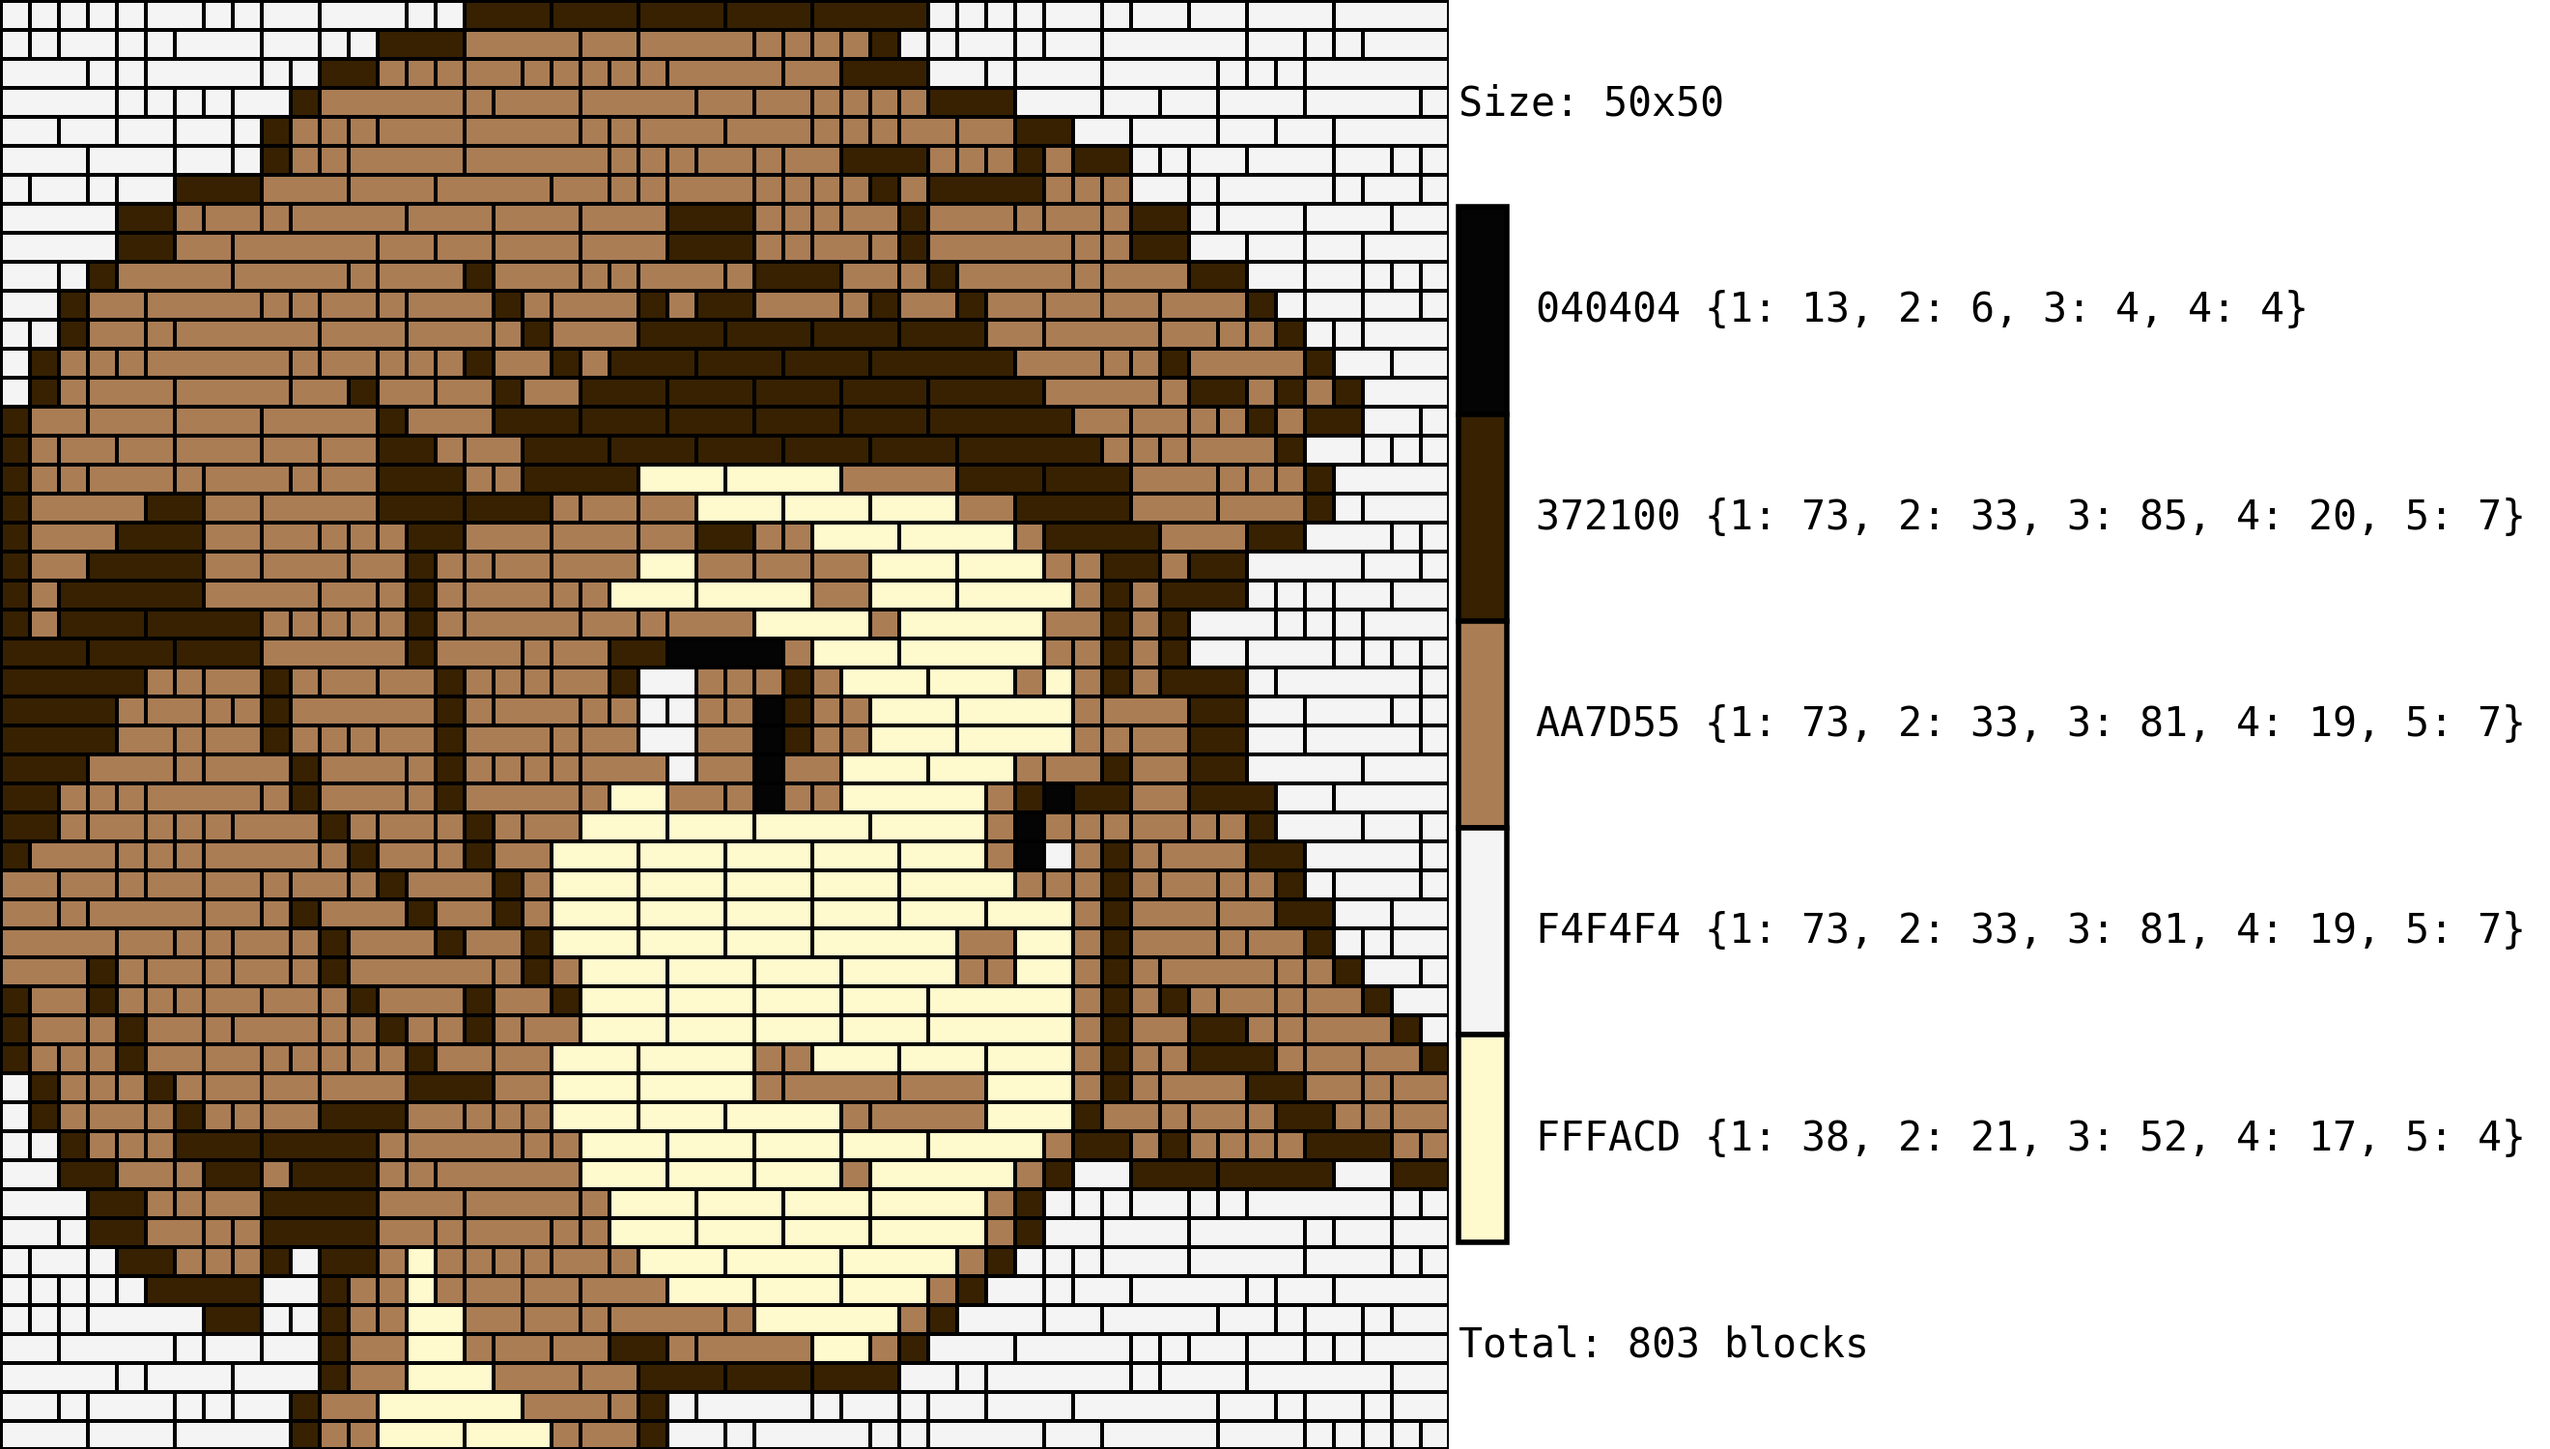
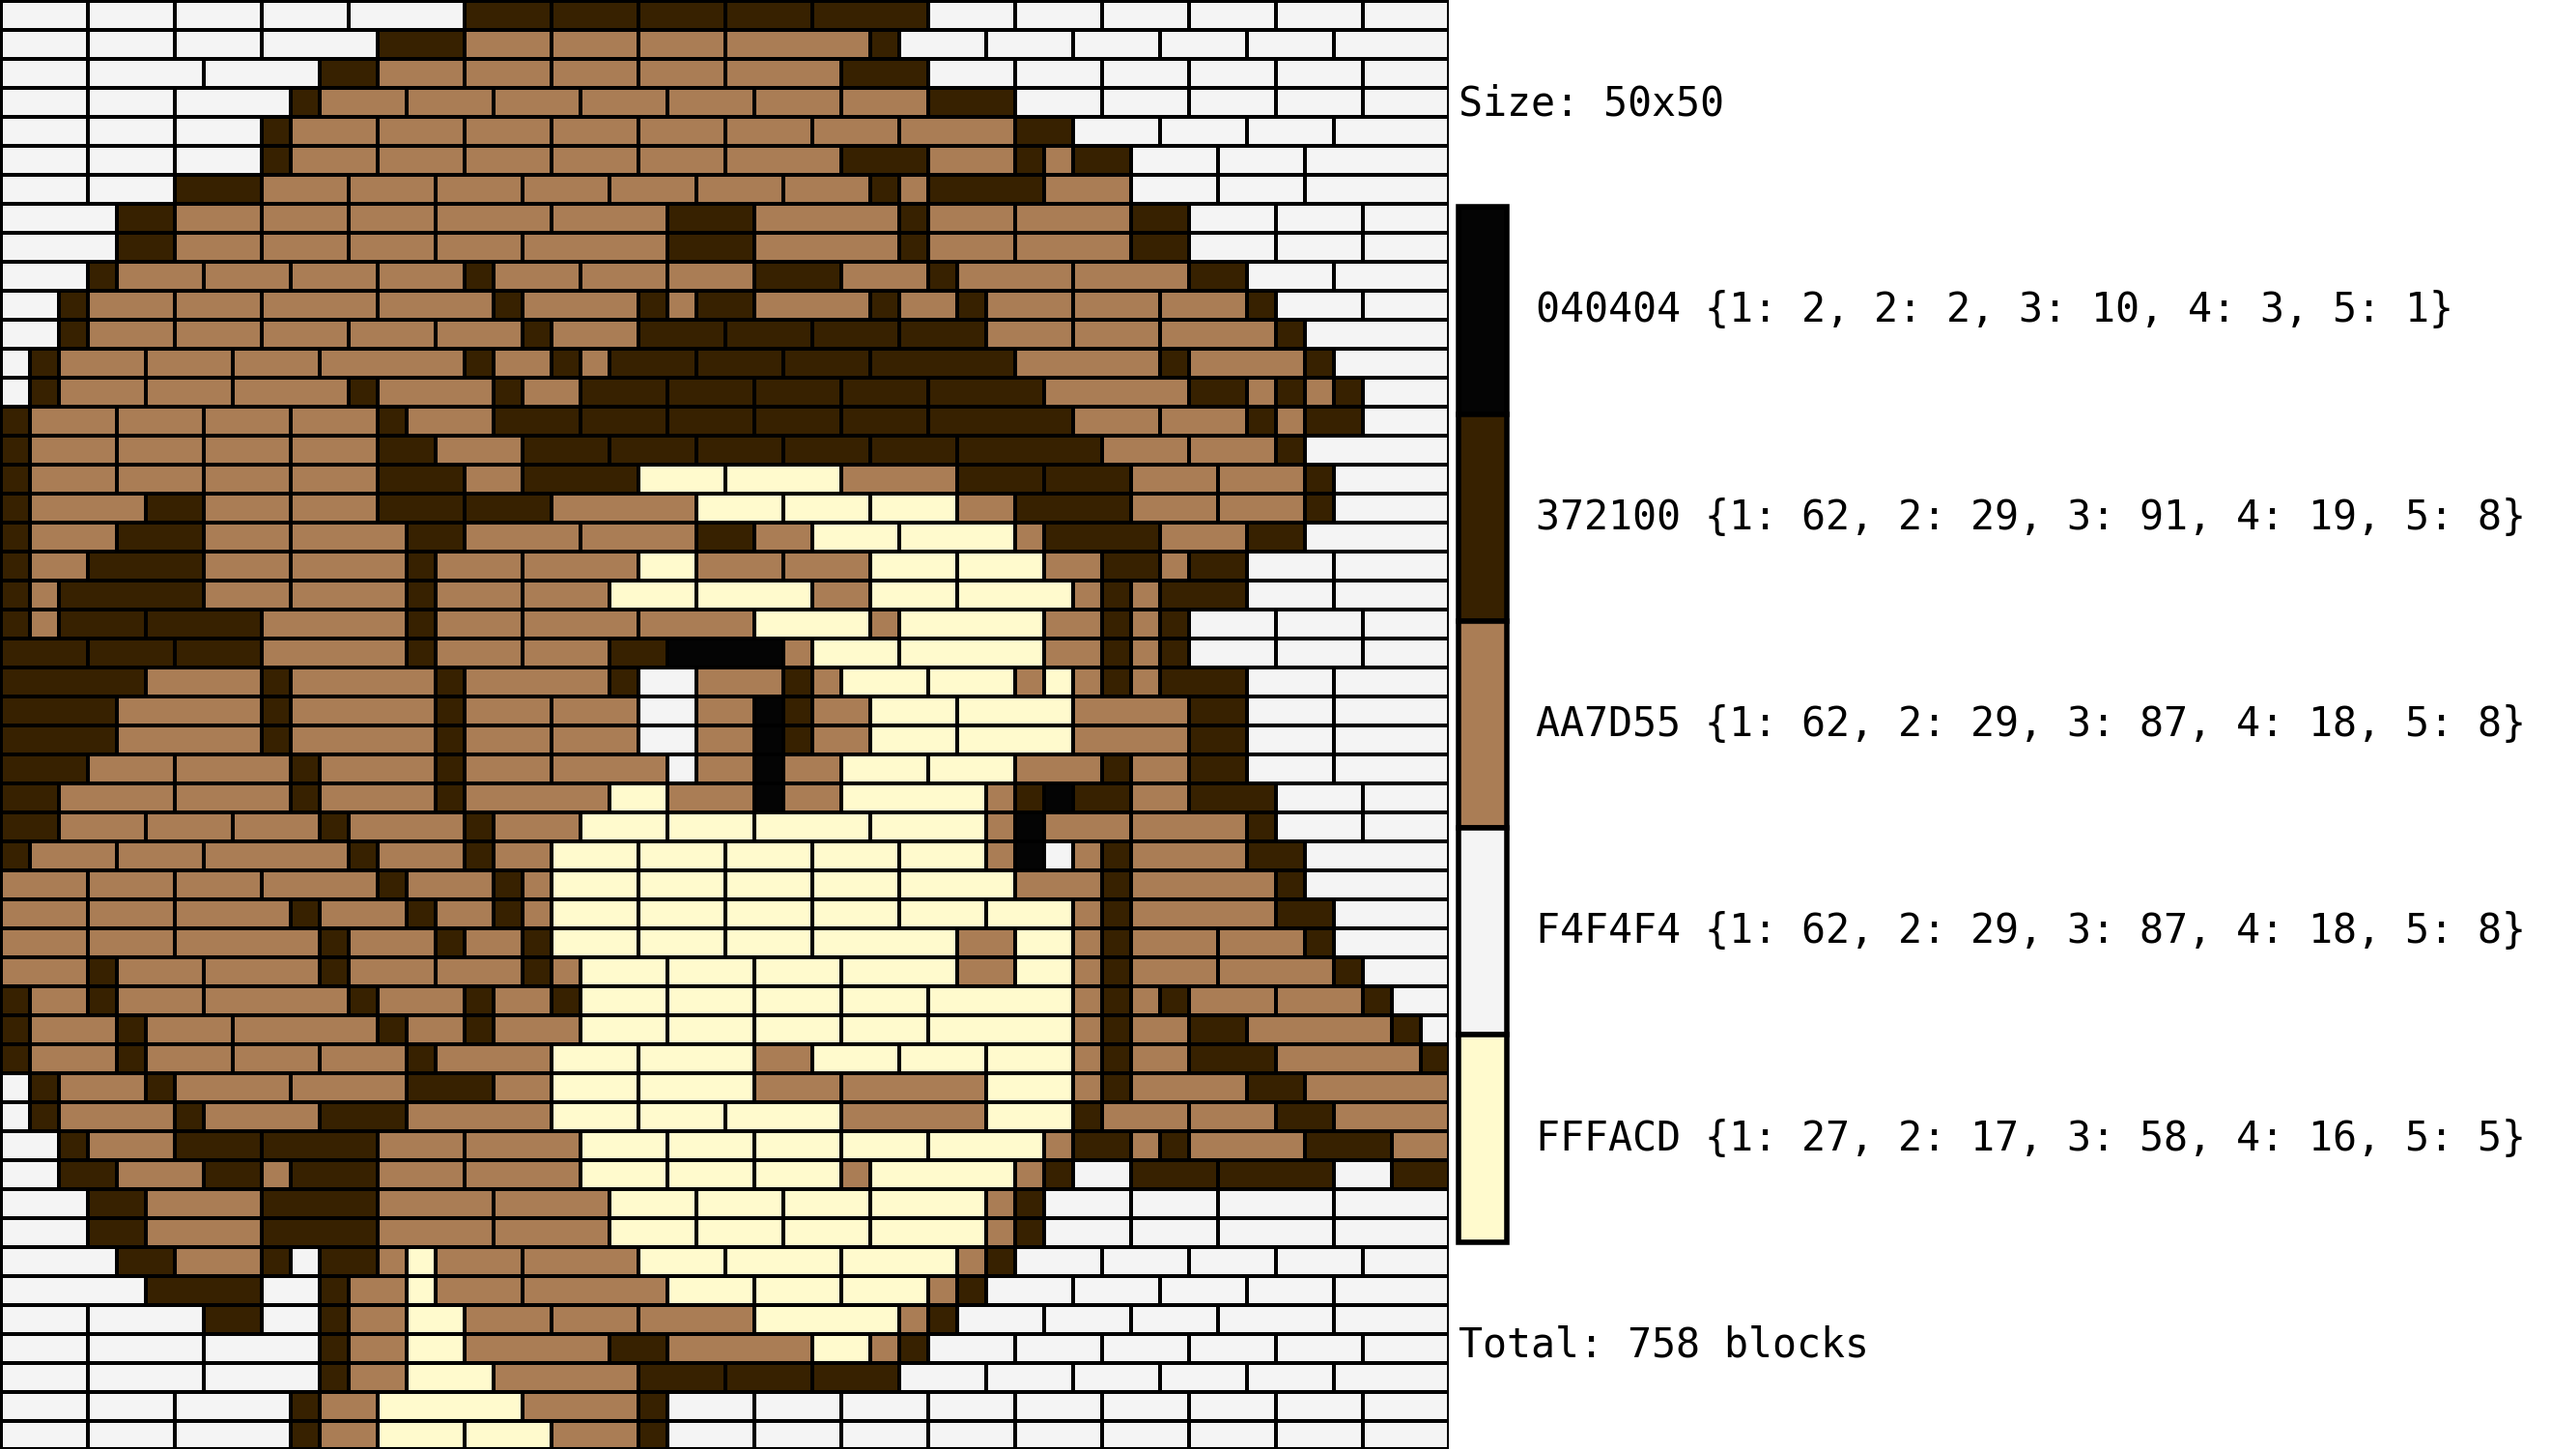
Lego Optimizer update

diff --git a/_artsci/2022-04-04-LegoOptimizer.md b/_artsci/2022-04-04-LegoOptimizer.md
@@ -20,7 +20,7 @@ Some time ago I was talking to a friend who had visited a Lego store where he go
 
 This started the idea of coding an algorithm that could generate these kind of images with more colors and that included longer blocks. Initially, we thought it'd be a somewhat run-of-the-mill optimization problem, but it took some image processing, run-length encoding, solving a multiple-knapsack problem, and some image decoding to get the whole task done!
 
-<center><img src="/media/lego/sami_FNL.png" style="width:50%;"></center>
+<center><img src="/media/lego/demo.png" style="width:100%;"></center>
 
 
 # Overview
@@ -200,9 +200,43 @@ So that, after we repeat this for the whole image, we could go through each row 
 * __Input:__ *Decoded image blocks mappings & original image.*
 * __Output:__ *Image with highlighted blocks.*
 
-With the hard part done, we are ready to re-create the original image with the blocks outlined on top of it. 
+With the hard optimization part done, we are ready to re-create the original image with the blocks outlined on top of it. The idea here is to iterate through each row of the optimized blocks and "build" the image back piece by piece. This has a slight caveat in that the missing blocks are returned as negative numbers, so they have to be handled properly (in this case, we switch the edge color to red):
 
 
+```python
+# Iterate through the decoded array (rix: row index)
+for rix in range(len(decoded)):
+    # Get row information (dRow: decoded row)
+    dRow = decoded[rix]
+    # Get the iterators started
+    (row, col) = (rix, 0)
+    # Load info from the block index
+    for bix in range(len(dRow)):
+        (bColor, bLensVct) = dRow[bix]
+        bColsLen = len(bLensVct)
+        for bCols in range(bColsLen):
+            # Setup the drawer to the left-top corner
+            tlCrnr = (SCALER*col+LW/2, SCALER*row+LW/2)
+            # The length of the block is defined by the array (height is constant for all)
+            (w, h) = (bLensVct[bCols]*SCALER, 1*SCALER)
+            # Handle the case for which there not enough blocks
+            rectCol = RB_COL if (w > 0) else RN_COL
+            w = abs(w)
+            blocks = (tlCrnr, (tlCrnr[0]+w-LW/2, tlCrnr[1]+h-LW/2))
+            # Draw the resulting block 
+            draw = ImageDraw.Draw(img)
+            # draw.rectangle(blocks, fill=(*bColor, int(255*BLOCKS_ALPHA)))
+            draw.rectangle(blocks, outline=rectCol, width=LW)
+            # Shift column iterator
+            col = col + abs(bLensVct[bCols])
+```
+
+This gives image reconstruction process works both as a visualization and verification step, as any missmatches would result in scrambled images. Resulting images look as follows:
+
+<center><img src="/media/lego/sami_Lego.png" style="width:25%;"></center>
+
+
+With a case where a solution was found with available blocks is shown in the left, and one in which some blocks would be missing on the right.
 
 ## [Bill of Materials](https://github.com/Chipdelmal/LegoOptimizer/blob/main/bom.py)
 
@@ -210,7 +244,10 @@ With the hard part done, we are ready to re-create the original image with the b
 * __Input:__ *Decoded image blocks mappings, and image with highlighted blocks*
 * __Output:__ *Final panel with portrait and bill of materials.*
 
-Finally, we need to compute the number of blocks and shapes of each color that will be needed to build our portrait.
+Finally, we need to compute the number of blocks and shapes of each color that will be needed to build our portrait. 
+
+
+<center><img src="/media/lego/sami_FNL.png" style="width:100%;"></center>
 
 
 # Notes
